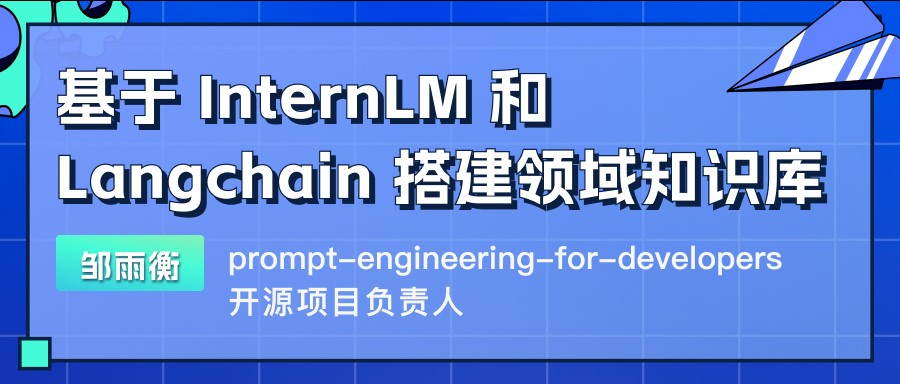
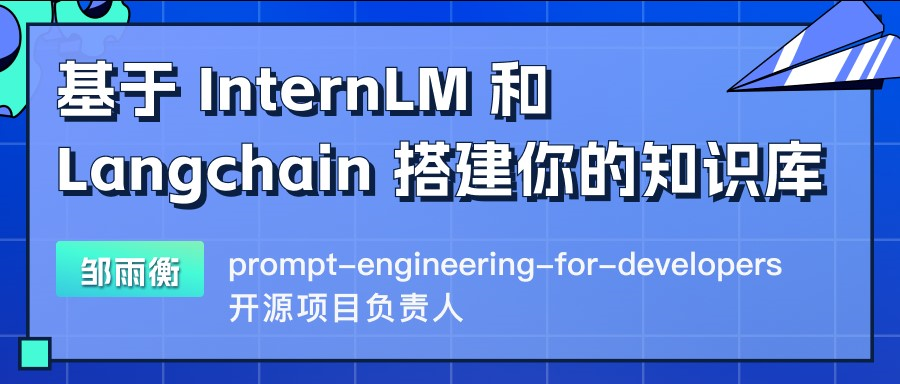
更新 LangChain 部分标题 (#19)

Changed region(s): [[0.0622, 0.1562, 0.9333, 0.8438], [0.0622, 0.375, 0.0933, 0.4062]]

diff --git a/langchain/readme.md b/langchain/readme.md
@@ -1,6 +1,6 @@
 ![](figures/image-0.png)
 
-# 基于 InternLM 和 LangChain 搭建知识库助手
+# 基于 InternLM 和 LangChain 搭建你的知识库
 
 ## 一、环境配置
 
